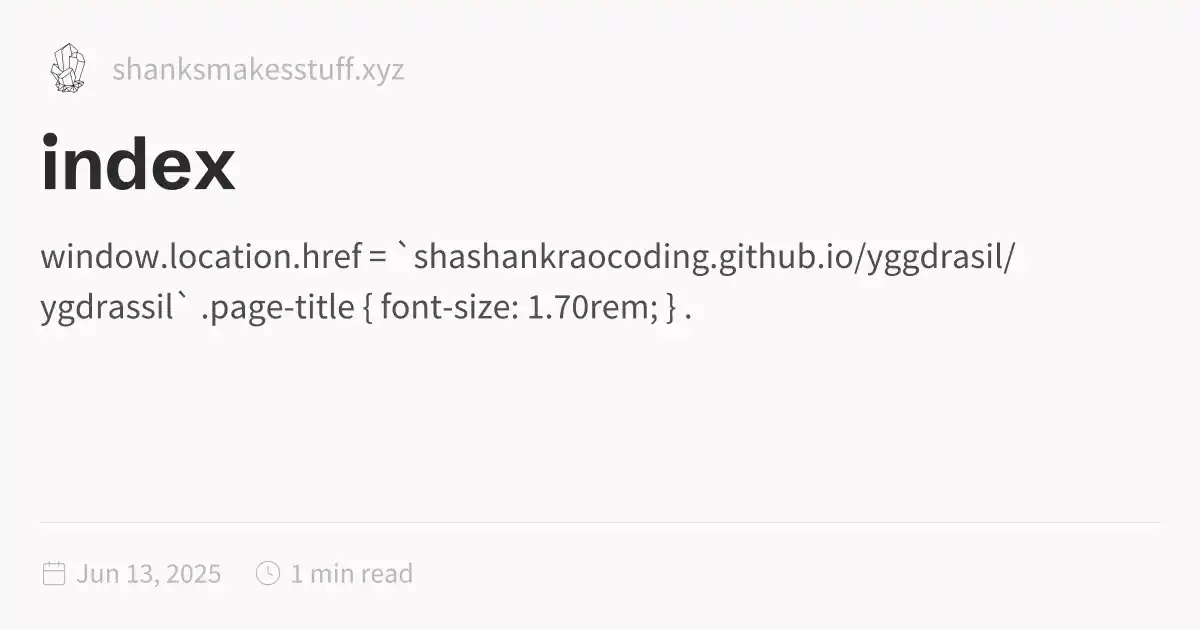
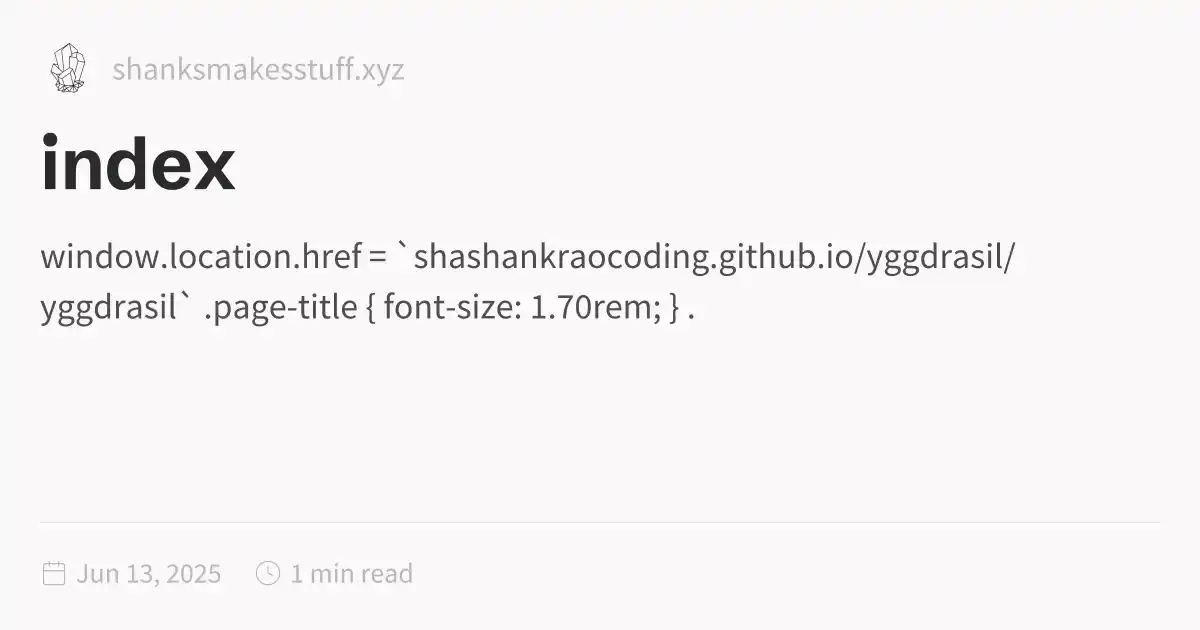
2025-06-13_1055

Changed region(s): [[0.0617, 0.4524, 0.5858, 0.5127]]

diff --git a/index.html b/index.html
@@ -1,5 +1,5 @@
 <!DOCTYPE html>
-<html lang="en"><head><title>index</title><meta charset="utf-8"/><link rel="preconnect" href="https://fonts.googleapis.com"/><link rel="preconnect" href="https://fonts.gstatic.com"/><link rel="stylesheet" href="https://fonts.googleapis.com/css2?family=Schibsted Grotesk:wght@400;700&amp;family=Source Sans Pro:ital,wght@0,400;0,600;1,400;1,600&amp;family=IBM Plex Mono:wght@400;600&amp;display=swap"/><link rel="preconnect" href="https://cdnjs.cloudflare.com" crossorigin="anonymous"/><meta name="viewport" content="width=device-width, initial-scale=1.0"/><meta name="og:site_name" content="ShanksMakesStuff"/><meta property="og:title" content="index"/><meta property="og:type" content="website"/><meta name="twitter:card" content="summary_large_image"/><meta name="twitter:title" content="index"/><meta name="twitter:description" content="window.location.href = `shashankraocoding.github.io/yggdrasil/ygdrassil` .page-title { font-size: 1.70rem; } ."/><meta property="og:description" content="window.location.href = `shashankraocoding.github.io/yggdrasil/ygdrassil` .page-title { font-size: 1.70rem; } ."/><meta property="og:image:alt" content="window.location.href = `shashankraocoding.github.io/yggdrasil/ygdrassil` .page-title { font-size: 1.70rem; } ."/><meta property="twitter:domain" content="shanksmakesstuff.xyz"/><meta property="og:url" content="https://shanksmakesstuff.xyz/index"/><meta property="twitter:url" content="https://shanksmakesstuff.xyz/index"/><link rel="icon" href="./static/icon.png"/><meta name="description" content="window.location.href = `shashankraocoding.github.io/yggdrasil/ygdrassil` .page-title { font-size: 1.70rem; } ."/><meta name="generator" content="Quartz"/><link href="./index.css" rel="stylesheet" type="text/css" spa-preserve/><style>.expand-button {
+<html lang="en"><head><title>index</title><meta charset="utf-8"/><link rel="preconnect" href="https://fonts.googleapis.com"/><link rel="preconnect" href="https://fonts.gstatic.com"/><link rel="stylesheet" href="https://fonts.googleapis.com/css2?family=Schibsted Grotesk:wght@400;700&amp;family=Source Sans Pro:ital,wght@0,400;0,600;1,400;1,600&amp;family=IBM Plex Mono:wght@400;600&amp;display=swap"/><link rel="preconnect" href="https://cdnjs.cloudflare.com" crossorigin="anonymous"/><meta name="viewport" content="width=device-width, initial-scale=1.0"/><meta name="og:site_name" content="ShanksMakesStuff"/><meta property="og:title" content="index"/><meta property="og:type" content="website"/><meta name="twitter:card" content="summary_large_image"/><meta name="twitter:title" content="index"/><meta name="twitter:description" content="window.location.href = `shashankraocoding.github.io/yggdrasil/yggdrasil` .page-title { font-size: 1.70rem; } ."/><meta property="og:description" content="window.location.href = `shashankraocoding.github.io/yggdrasil/yggdrasil` .page-title { font-size: 1.70rem; } ."/><meta property="og:image:alt" content="window.location.href = `shashankraocoding.github.io/yggdrasil/yggdrasil` .page-title { font-size: 1.70rem; } ."/><meta property="twitter:domain" content="shanksmakesstuff.xyz"/><meta property="og:url" content="https://shanksmakesstuff.xyz/index"/><meta property="twitter:url" content="https://shanksmakesstuff.xyz/index"/><link rel="icon" href="./static/icon.png"/><meta name="description" content="window.location.href = `shashankraocoding.github.io/yggdrasil/yggdrasil` .page-title { font-size: 1.70rem; } ."/><meta name="generator" content="Quartz"/><link href="./index.css" rel="stylesheet" type="text/css" spa-preserve/><style>.expand-button {
   position: absolute;
   display: flex;
   float: right;
@@ -116,9 +116,9 @@ pre:hover > .expand-button {
   padding: 0 12px;
   font-size: 14px;
 }
[2 lines of base64/hex data omitted]
 	<script> 
-		window.location.href = `https://shashankraocoding.github.io/yggdrasil/ygdrassil` 
+		window.location.href = `https://shashankraocoding.github.io/yggdrasil/yggdrasil` 
 	</script> 
  
  
